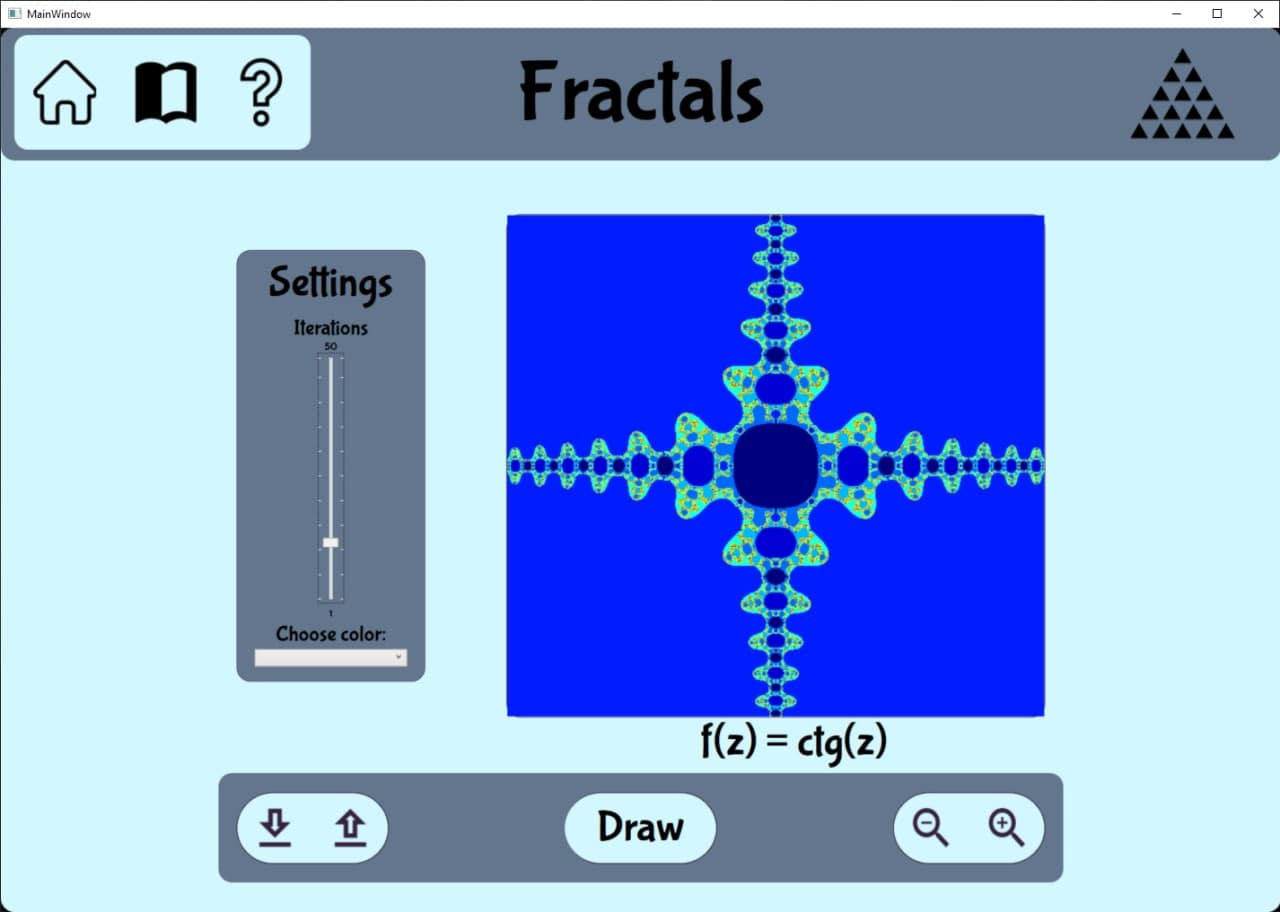
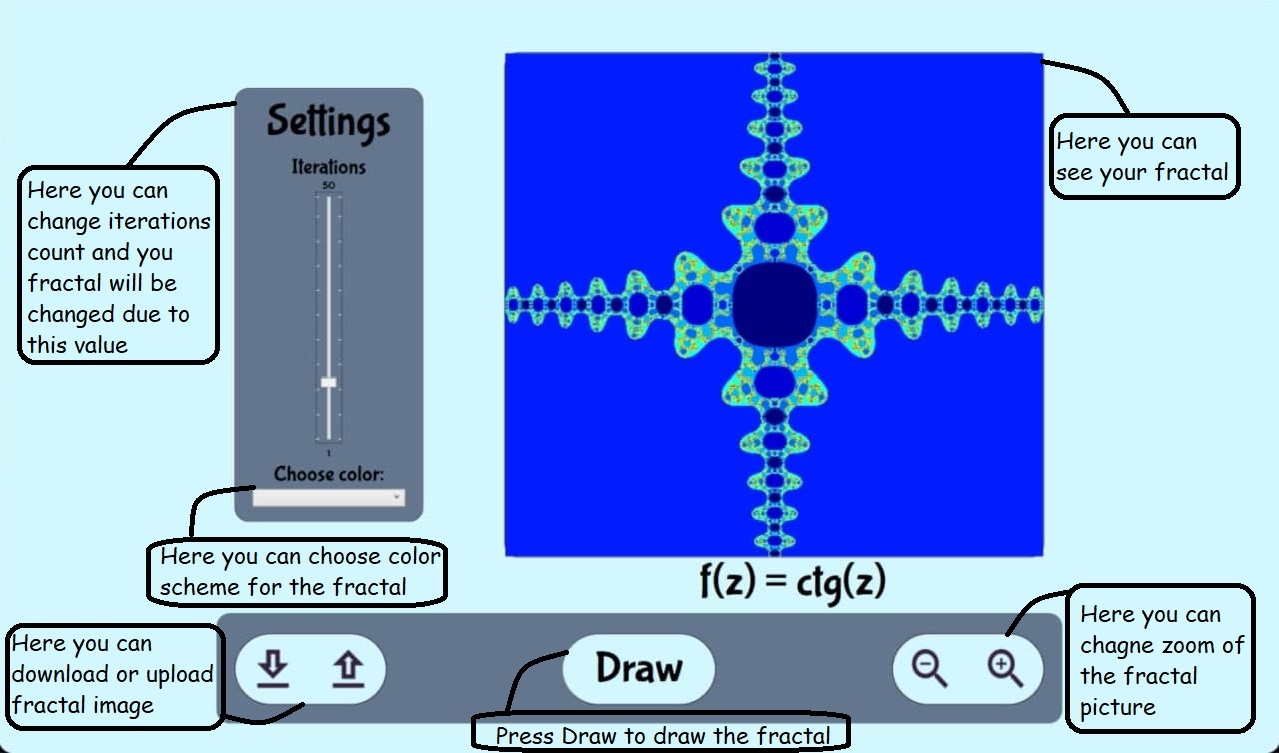
KG-6 Add help windows

diff --git a/EasyGraphics/EasyGraphics/Views/FractalWindow.xaml b/EasyGraphics/EasyGraphics/Views/FractalWindow.xaml
@@ -47,12 +47,13 @@
                                         Background="#D3F7FF" 
                                         Height="100" 
                                         Width="80"
-                                        Click="ButtonBase_OnClick">
+                                        Click="ButtonBase_OnClick"
+                                        >
                                     <StackPanel Orientation="Horizontal">
                                         <Image Source="/images/book.png" Width="76" Height="100" />
                                     </StackPanel>
                                 </Button>
-                                <Button Grid.Column="2" BorderThickness="0" Style="{StaticResource {x:Static ToolBar.ButtonStyleKey}}" Background="#D3F7FF" Height="80" Width="80">
+                                <Button x:Name="HelpButton" Click="HelpButton_OnClick" Grid.Column="2" BorderThickness="0" Style="{StaticResource {x:Static ToolBar.ButtonStyleKey}}" Background="#D3F7FF" Height="80" Width="80">
                                     <StackPanel Orientation="Horizontal">
                                         <Image Source="/images/question.png" Height="76" />
                                     </StackPanel>

diff --git a/EasyGraphics/EasyGraphics/Views/RectangleMoveWindow.xaml b/EasyGraphics/EasyGraphics/Views/RectangleMoveWindow.xaml
@@ -74,7 +74,7 @@
                                         <Image Source="/images/book.png" Width="76" Height="100" />
                                     </StackPanel>
                                 </Button>
-                                <Button Grid.Column="2" BorderThickness="0" Style="{StaticResource {x:Static ToolBar.ButtonStyleKey}}" Background="#D3F7FF" Height="80" Width="80">
+                                <Button x:Name="HelpButton" Click="HelpButton_OnClick" Grid.Column="2" BorderThickness="0" Style="{StaticResource {x:Static ToolBar.ButtonStyleKey}}" Background="#D3F7FF" Height="80" Width="80">
                                     <StackPanel Orientation="Horizontal">
                                         <Image Source="/images/question.png" Height="76" />
                                     </StackPanel>

diff --git a/EasyGraphics/EasyGraphics/Constants/StringConstants.cs b/EasyGraphics/EasyGraphics/Constants/StringConstants.cs
@@ -8,6 +8,8 @@ namespace EasyGraphics.Constants
         public static readonly string ColorSchemePictureName = "colorTip";
         public static readonly string RectangleMovePictureName = "rectangleTip";
         public static readonly string ColorSchemeHelp = "ColorsHelp";
+        public static readonly string FractalsHelp = "FractalsHelp";
+        public static readonly string AffinesHelp = "AffinesHelp";
 
 
         public static readonly List<string> RectangleMovePages = new List<string>

diff --git a/EasyGraphics/EasyGraphics/Views/RectangleMoveWindow.xaml.cs b/EasyGraphics/EasyGraphics/Views/RectangleMoveWindow.xaml.cs
@@ -549,5 +549,13 @@ namespace EasyGraphics.Views
             Stop.Visibility = Visibility.Collapsed;
             Start.Visibility = Visibility.Visible;
         }
+
+        private void HelpButton_OnClick(object sender, RoutedEventArgs e)
+        {
+            var helpWindow = new HelpWindow(StringConstants.AffinesHelp, this, _parentWindow);
+
+            Hide();
+            helpWindow.Show();
+        }
     }
 }

diff --git a/EasyGraphics/EasyGraphics/Views/FractalWindow.xaml.cs b/EasyGraphics/EasyGraphics/Views/FractalWindow.xaml.cs
@@ -378,5 +378,13 @@ namespace EasyGraphics.Views
             _parentWindow.Show();
             this.Close();
         }
+
+        private void HelpButton_OnClick(object sender, RoutedEventArgs e)
+        {
+            var helpWindow = new HelpWindow(StringConstants.FractalsHelp, this, _parentWindow);
+
+            Hide();
+            helpWindow.Show();
+        }
     }
 }
